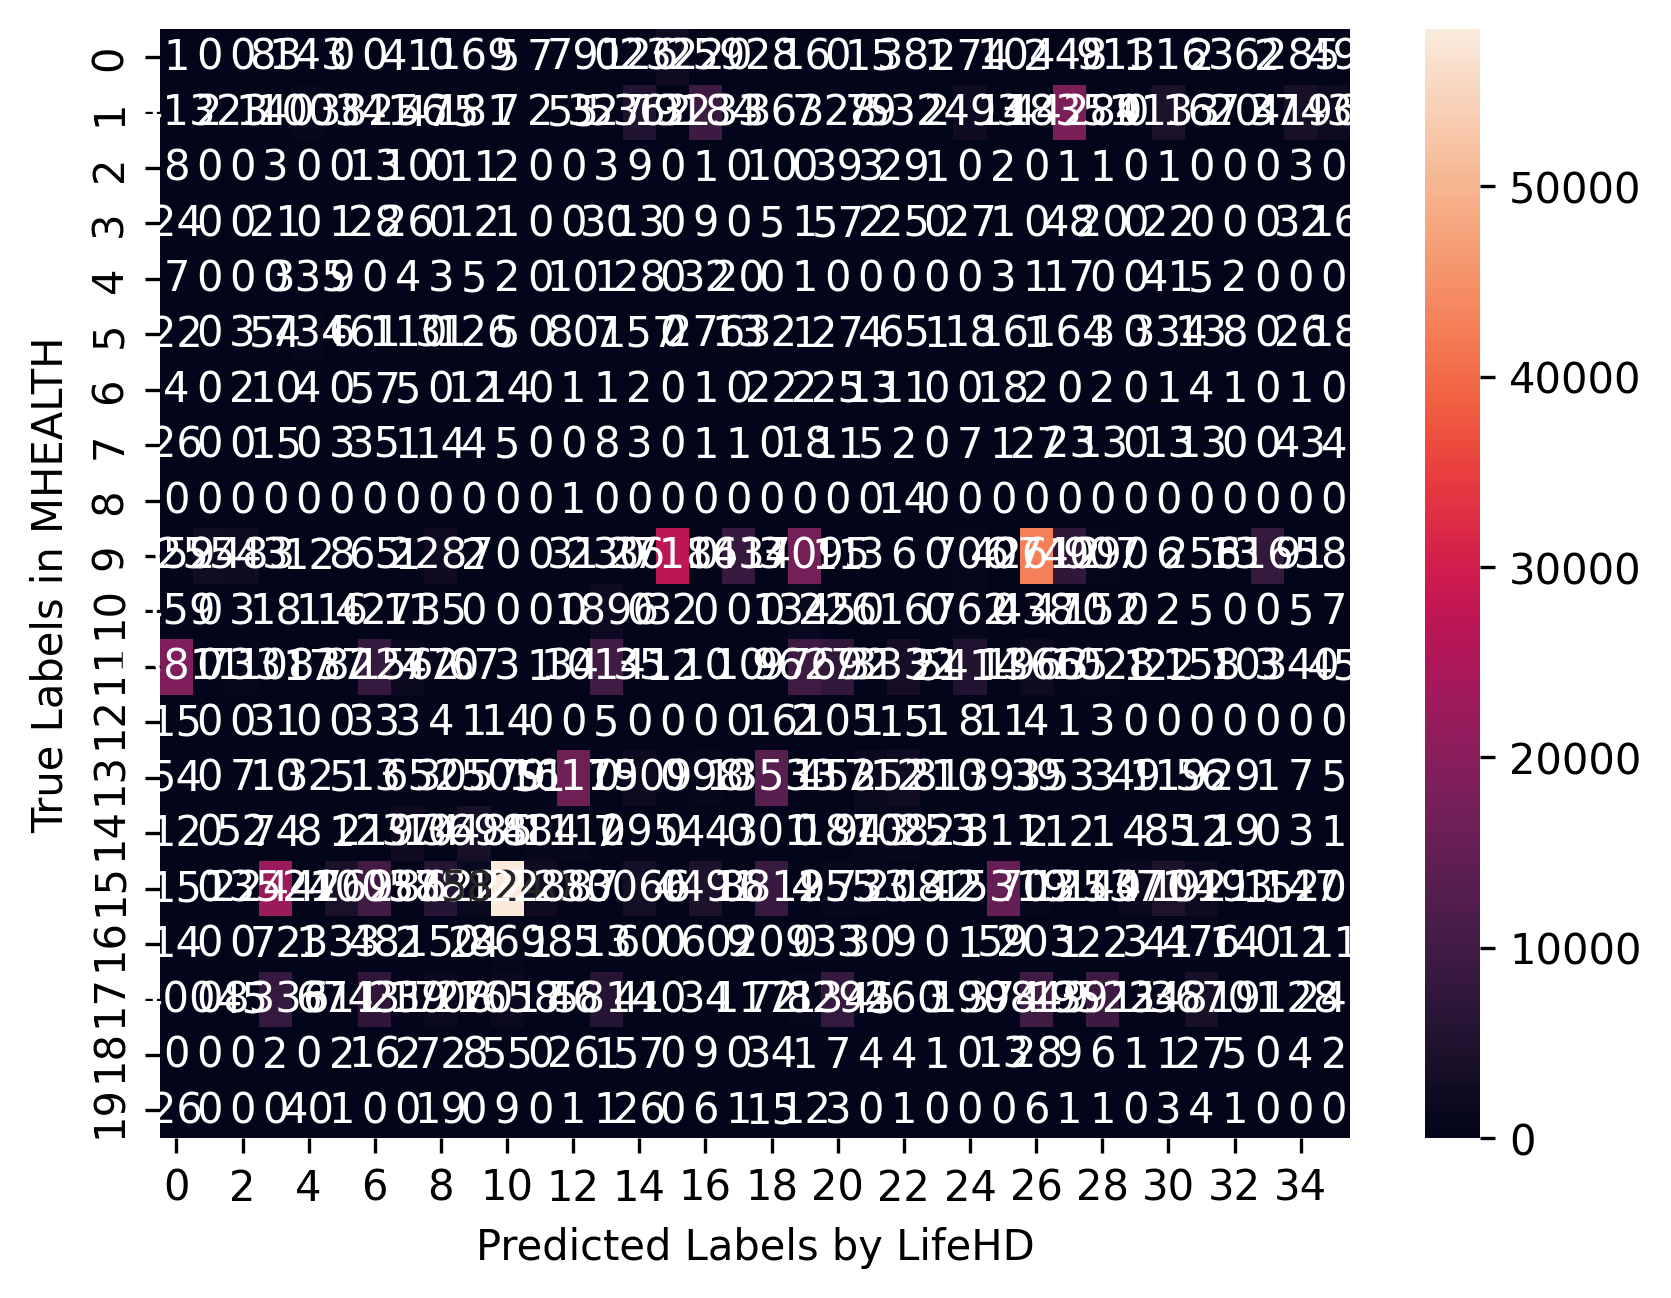
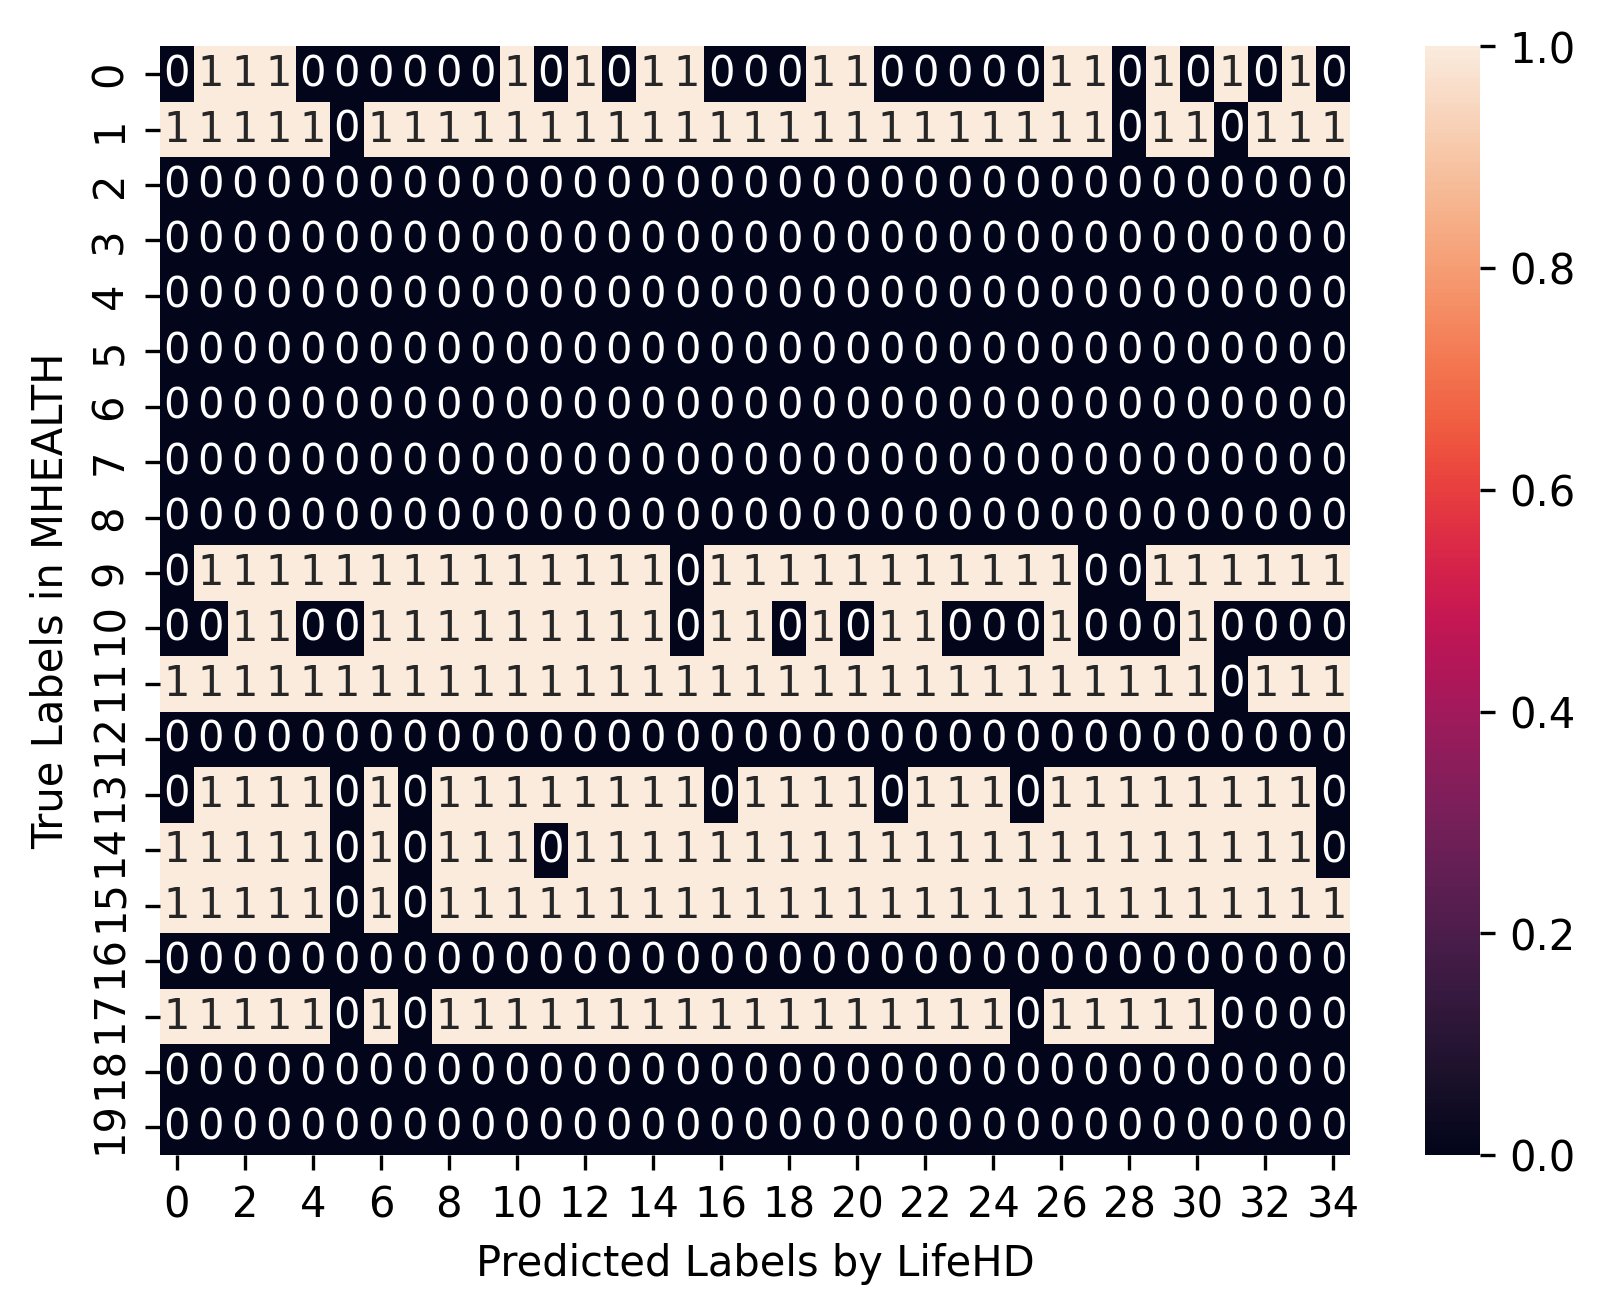
random changes

diff --git a/utils/eval_utils.py b/utils/eval_utils.py
@@ -11,56 +11,61 @@ from sklearn.metrics import pairwise_distances
 from sklearn.metrics.cluster import normalized_mutual_info_score, rand_score
 from .plot_utils import plot_tsne
 
-def eval_acc_multi_label(y_true, y_pred, cluster_labels):
+import numpy as np
+
+def eval_acc_multi_label(y_true, y_pred, cluster_labels, threshold_ratio=0.10):
     """
-    Calculate clustering accuracy for multi-label clusters.
-    Each cluster can have multiple correct labels.
-    
-    # Arguments
-        y_true: true labels, numpy.array with shape `(n_samples,)`
-        y_pred: predicted cluster assignments, numpy.array with shape `(n_samples,)`
-        cluster_labels: dictionary mapping cluster_id to dict of {label: count}
-                       or list of sets of valid labels for each cluster
-    # Return
-        accuracy, in [0,1]
-        purity, in [0,1]
-        confusion_matrix
+    Multi-label clustering evaluation (Option 2).
+
+    - A prediction is correct if true_label ∈ valid_labels(cluster)
+    - Confusion matrix is binary:
+          cm[true_label, pred_cluster] = 1 if valid; otherwise 0.
+
+    Arguments:
+        y_true: (n_samples,) array of true labels
+        y_pred: (n_samples,) array of predicted cluster IDs
+        cluster_labels: dict {cluster_id: {label: count}}
+        threshold_ratio: threshold for filtering low-frequency labels
+
+    Returns:
+        accuracy: fraction of correct multi-label predictions
+        cm: binary multi-label correctness matrix (num_classes × n_clusters)
     """
-    assert (y_pred.size == y_true.size), \
-        "Incorrect label length in eval_acc! y_pred {}, y_true {}".format(
-            y_pred.size, y_true.size)
+
+    assert y_pred.size == y_true.size, \
+        f"Incorrect label length: y_pred={y_pred.size}, y_true={y_true.size}"
 
     n_samples = y_true.size
     n_clusters = len(cluster_labels)
-    
+    num_classes = int(np.max(y_true)) + 1
+
     valid_labels_per_cluster = []
-    for cluster_id in range(n_clusters):
-        if cluster_id in cluster_labels:
-            if isinstance(cluster_labels[cluster_id], dict):
-                valid_labels_per_cluster.append(set(cluster_labels[cluster_id].keys()))
-            elif isinstance(cluster_labels[cluster_id], (set, list)):
-                valid_labels_per_cluster.append(set(cluster_labels[cluster_id]))
-        else:
+    
+    for cid in range(n_clusters):
+        if cid not in cluster_labels:
             valid_labels_per_cluster.append(set())
-    
-    correct_predictions = 0
-    for i in range(n_samples):
-        cluster_id = y_pred[i]
-        true_label = y_true[i]
-        if cluster_id < len(valid_labels_per_cluster) and true_label in valid_labels_per_cluster[cluster_id]:
-            correct_predictions += 1
-    
-    accuracy = correct_predictions / n_samples
-    
-    D1 = y_pred.max() + 1
-    D2 = y_true.max() + 1
-    cm = np.zeros((D1, D2), dtype=np.int64)
-    for i in range(y_pred.size):
-        cm[y_pred[i], y_true[i]] += 1
-    
-    purity = np.sum(np.max(cm, axis=0)) / np.sum(cm)
-    
-    return accuracy, purity, cm.T
+            continue
+
+        labels_dict = cluster_labels[cid]
+        total = sum(labels_dict.values())
+        threshold = threshold_ratio * total
+
+        valid = {lbl for lbl, cnt in labels_dict.items() if cnt >= threshold}
+        valid_labels_per_cluster.append(valid)
+
+    correct = 0
+    for t, p in zip(y_true, y_pred):
+        if t in valid_labels_per_cluster[p]:
+            correct += 1
+
+    accuracy = correct / n_samples
+
+    cm = np.zeros((num_classes, n_clusters), dtype=np.int64)
+
+    for t, p in zip(y_true, y_pred):
+        cm[t, p] = 1 if (t in valid_labels_per_cluster[p]) else 0
+
+    return accuracy, cm
 
 def eval_nmi(y_true, y_pred):
     """

diff --git a/uns_test.py b/uns_test.py
@@ -83,7 +83,7 @@ opt_train = SimpleNamespace(
 model_temp = Model(opt_model, modelfile=BACKBONE_FILE, num_classes=28, device=DEVICE, patch_size=16).to(DEVICE)
 model = LifeHD(opt_train, test_loader, test_loader, 28, model_temp, DEVICE, patch_size=16)
 
-ckpt = torch.load(MODEL_FILE, map_location=DEVICE)
+ckpt = torch.load(MODEL_FILE, map_location=DEVICE, weights_only=False)
 
 model.model.load_state_dict(ckpt["state_dict"])
 
@@ -97,7 +97,6 @@ model.model.cur_classes = ckpt["cur_classes"]
 
 model.mask = ckpt["mask"]
 model.cur_mask_dim = ckpt["cur_mask_dim"]
-
 
 # model.eval()
 
@@ -127,9 +126,8 @@ images = np.array(images)
 
 print("\n==== Evaluation Results ====")
 
-acc, purity, cm = eval_acc_multi_label(true_labels, pred_labels, model.model.cluster_labels)
+acc, cm = eval_acc_multi_label(true_labels, pred_labels, model.model.cluster_labels)
 print("ACC:", acc)
-print("Purity:", purity)
 
 nmi = eval_nmi(true_labels, pred_labels)
 print("NMI:", nmi)

diff --git a/modules/LifeHD2.py b/modules/LifeHD2.py
@@ -96,6 +96,8 @@ class LifeHD(nn.Module):
         self.best_model_path = os.path.join(self.opt.save_folder, "best_model_val.pth")
         self.new_model_path = os.path.join(self.opt.save_folder, f'end_high_hdc.pth')
 
+        self.num_val = 1000
+
     def start(self):
         for epoch in range(1, self.opt.epochs+1):
             # train for one epoch
@@ -276,7 +278,7 @@ class LifeHD(nn.Module):
                 pred_labels += predictions.detach().cpu().tolist()
                 test_labels += label.cpu().tolist()
 
-                if idx > 50:
+                if idx > self.num_val:
                     break
 
             pred_labels = np.array(pred_labels).astype(int)
